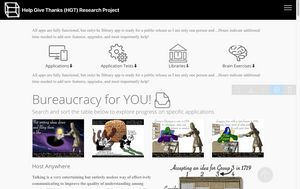
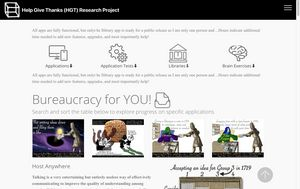
Test video time start

Changed region(s): [[0.75, 0.4497, 0.99, 0.5026], [0.84, 0.873, 0.93, 0.9788]]

diff --git a/index.html b/index.html
@@ -29,7 +29,7 @@
   
 </head>
 <body>
-  <link rel="stylesheet" href="style.less" class="cid-rdIxrA1Ibr" id="menu1-52" data-rv-view="30085"><section class="menu cid-rdIxrA1Ibr" once="menu" id="menu1-52">
+  <link rel="stylesheet" href="style.less" class="cid-rdIxrA1Ibr" id="menu1-52" data-rv-view="4300"><section class="menu cid-rdIxrA1Ibr" once="menu" id="menu1-52">
 
     
 
@@ -69,7 +69,7 @@
     </nav>
 </section>
 
-<section class="engine"><a href="https://mobirise.info/x">free css templates</a></section><section class="mbr-section article content1 cid-rdEfqWbhjN" id="content1-4e">
+<section class="engine"><a href="https://mobirise.info/d">free site maker</a></section><section class="mbr-section article content1 cid-rdEfqWbhjN" id="content1-4e">
     
      
 
@@ -288,7 +288,7 @@
     
 
     <div class="container">
-        <div><!-- Filter --><!-- Gallery --><div class="mbr-gallery-row"><div class="mbr-gallery-layout-default"><div><div><div class="mbr-gallery-item mbr-gallery-item--p2 video-slide" data-video-url="https://youtu.be/ROnC9064Rv4?t=5253" data-tags="Animated"><div href="#lb-gallery1-7f" data-slide-to="0" data-toggle="modal"><div></div><img alt="" src="assets/images/mobirise201909-1043542019-0-3-19-19-55.jpg"><span class="icon-video"></span></div></div><div class="mbr-gallery-item mbr-gallery-item--p2 video-slide" data-video-url="https://www.youtube.com/watch?v=SF242mxtZN8" data-tags="Animated"><div href="#lb-gallery1-7f" data-slide-to="1" data-toggle="modal"><div></div><img alt="" src="assets/images/mobirise201909-1043542019-0-3-19-27-3.jpg"><span class="icon-video"></span></div></div><div class="mbr-gallery-item mbr-gallery-item--p2 video-slide" data-video-url="https://www.youtube.com/watch?v=hmpVOUrLqq8" data-tags="Animated"><div href="#lb-gallery1-7f" data-slide-to="2" data-toggle="modal"><div></div><img alt="" src="assets/images/mobirise201909-1043542019-0-3-18-59-34.jpg"><span class="icon-video"></span></div></div><div class="mbr-gallery-item mbr-gallery-item--p2 video-slide" data-video-url="https://youtu.be/7VuKfSdZWlg?t=434" data-tags="Animated"><div href="#lb-gallery1-7f" data-slide-to="3" data-toggle="modal"><div></div><img alt="" src="assets/images/mobirise201909-1043542019-0-3-15-2-7.jpg"><span class="icon-video"></span></div></div></div></div><div class="clearfix"></div></div></div><!-- Lightbox --><div data-app-prevent-settings="" class="mbr-slider modal fade carousel slide" tabindex="-1" data-keyboard="true" data-interval="false" id="lb-gallery1-7f"><div class="modal-dialog"><div class="modal-content"><div class="modal-body"><div class="carousel-inner"><div class="carousel-item video-container"><img src="assets/images/gallery07.jpg" alt="" title=""></div><div class="carousel-item active video-container"><img src="assets/images/gallery07.jpg" alt="" title=""></div><div class="carousel-item video-container"><img src="assets/images/gallery07.jpg" alt="" title=""></div><div class="carousel-item video-container"><img src="assets/images/gallery07.jpg" alt="" title=""></div></div><a class="carousel-control carousel-control-prev" role="button" data-slide="prev" href="#lb-gallery1-7f"><span class="mbri-left mbr-iconfont" aria-hidden="true"></span><span class="sr-only">Previous</span></a><a class="carousel-control carousel-control-next" role="button" data-slide="next" href="#lb-gallery1-7f"><span class="mbri-right mbr-iconfont" aria-hidden="true"></span><span class="sr-only">Next</span></a><a class="close" href="#" role="button" data-dismiss="modal"><span class="sr-only">Close</span></a></div></div></div></div></div>
+        <div><!-- Filter --><!-- Gallery --><div class="mbr-gallery-row"><div class="mbr-gallery-layout-default"><div><div><div class="mbr-gallery-item mbr-gallery-item--p2 video-slide" data-video-url="https://youtu.be/7VuKfSdZWlg?t=434" data-tags="Animated"><div href="#lb-gallery1-7f" data-slide-to="0" data-toggle="modal"><div></div><img alt="" src="assets/images/mobirise201909-1043542019-0-3-15-2-7.jpg"><span class="icon-video"></span></div></div><div class="mbr-gallery-item mbr-gallery-item--p2 video-slide" data-video-url="https://youtu.be/ROnC9064Rv4?t=5253" data-tags="Animated"><div href="#lb-gallery1-7f" data-slide-to="1" data-toggle="modal"><div></div><img alt="" src="assets/images/mobirise201909-1043542019-0-3-19-19-55.jpg"><span class="icon-video"></span></div></div><div class="mbr-gallery-item mbr-gallery-item--p2 video-slide" data-video-url="https://www.youtube.com/watch?v=hmpVOUrLqq8" data-tags="Animated"><div href="#lb-gallery1-7f" data-slide-to="2" data-toggle="modal"><div></div><img alt="" src="assets/images/mobirise201909-1043542019-0-3-18-59-34.jpg"><span class="icon-video"></span></div></div><div class="mbr-gallery-item mbr-gallery-item--p2 video-slide" data-video-url="https://vimeo.com/79860268#t=370s" data-tags="Animated"><div href="#lb-gallery1-7f" data-slide-to="3" data-toggle="modal"><div></div><img alt="" src="assets/images/mobirise2019010-2334492019-0-4-23-42-11.jpg"><span class="icon-video"></span></div></div></div></div><div class="clearfix"></div></div></div><!-- Lightbox --><div data-app-prevent-settings="" class="mbr-slider modal fade carousel slide" tabindex="-1" data-keyboard="true" data-interval="false" id="lb-gallery1-7f"><div class="modal-dialog"><div class="modal-content"><div class="modal-body"><div class="carousel-inner"><div class="carousel-item video-container"><img src="assets/images/gallery07.jpg" alt="" title=""></div><div class="carousel-item active video-container"><img src="assets/images/gallery07.jpg" alt="" title=""></div><div class="carousel-item video-container"><img src="assets/images/gallery07.jpg" alt="" title=""></div><div class="carousel-item video-container"><img src="assets/images/gallery07.jpg" alt="" title=""></div></div><a class="carousel-control carousel-control-prev" role="button" data-slide="prev" href="#lb-gallery1-7f"><span class="mbri-left mbr-iconfont" aria-hidden="true"></span><span class="sr-only">Previous</span></a><a class="carousel-control carousel-control-next" role="button" data-slide="next" href="#lb-gallery1-7f"><span class="mbri-right mbr-iconfont" aria-hidden="true"></span><span class="sr-only">Next</span></a><a class="close" href="#" role="button" data-dismiss="modal"><span class="sr-only">Close</span></a></div></div></div></div></div>
     </div>
 
 </section>

diff --git a/page5.html b/page5.html
@@ -27,7 +27,7 @@
   
 </head>
 <body>
-  <link rel="stylesheet" href="style.less" class="cid-rdKnRHOPKf" id="menu1-5z" data-rv-view="31564"><section class="menu cid-rdKnRHOPKf" once="menu" id="menu1-5z">
+  <link rel="stylesheet" href="style.less" class="cid-rdKnRHOPKf" id="menu1-5z" data-rv-view="5779"><section class="menu cid-rdKnRHOPKf" once="menu" id="menu1-5z">
 
     
 
@@ -67,7 +67,7 @@
     </nav>
 </section>
 
-<section class="engine"><a href="https://mobirise.info/s">free bootstrap theme</a></section><section class="mbr-section article content1 cid-rdKnRH8hww" id="content1-5y">
+<section class="engine"><a href="https://mobirise.info/h">how to create your own web page</a></section><section class="mbr-section article content1 cid-rdKnRH8hww" id="content1-5y">
     
      
 

diff --git a/page1.html b/page1.html
@@ -64,7 +64,7 @@
     </nav>
 </section>
 
-<section class="engine"><a href="https://mobirise.info/e">make your own site for free</a></section><section once="" class="cid-qCrRZE6qjk mbr-reveal" id="footer7-2c">
+<section class="engine"><a href="https://mobirise.info/v">free html templates</a></section><section once="" class="cid-qCrRZE6qjk mbr-reveal" id="footer7-2c">
 
     
 

diff --git a/page2.html b/page2.html
@@ -64,7 +64,7 @@
     </nav>
 </section>
 
-<section class="engine"><a href="https://mobirise.info/u">bootstrap website templates</a></section><section once="" class="cid-qCrRZE6qjk mbr-reveal" id="footer7-2w">
+<section class="engine"><a href="https://mobirise.info/s">bootstrap themes</a></section><section once="" class="cid-qCrRZE6qjk mbr-reveal" id="footer7-2w">
 
     
 

diff --git a/assets/mobirise/css/mbr-additional.css b/assets/mobirise/css/mbr-additional.css
@@ -2190,6 +2190,12 @@ body {
   -webkit-transition: 0.2s background ease-in-out;
   transition: 0.2s background ease-in-out;
 }
+.cid-reDIay7aYy .mbr-gallery-item > div > span B {
+  color: #ffffff;
+}
+.cid-reDIay7aYy .mbr-gallery-item > div > span {
+  text-align: right;
+}
 .cid-reIEppJEry {
   padding-top: 15px;
   padding-bottom: 15px;
